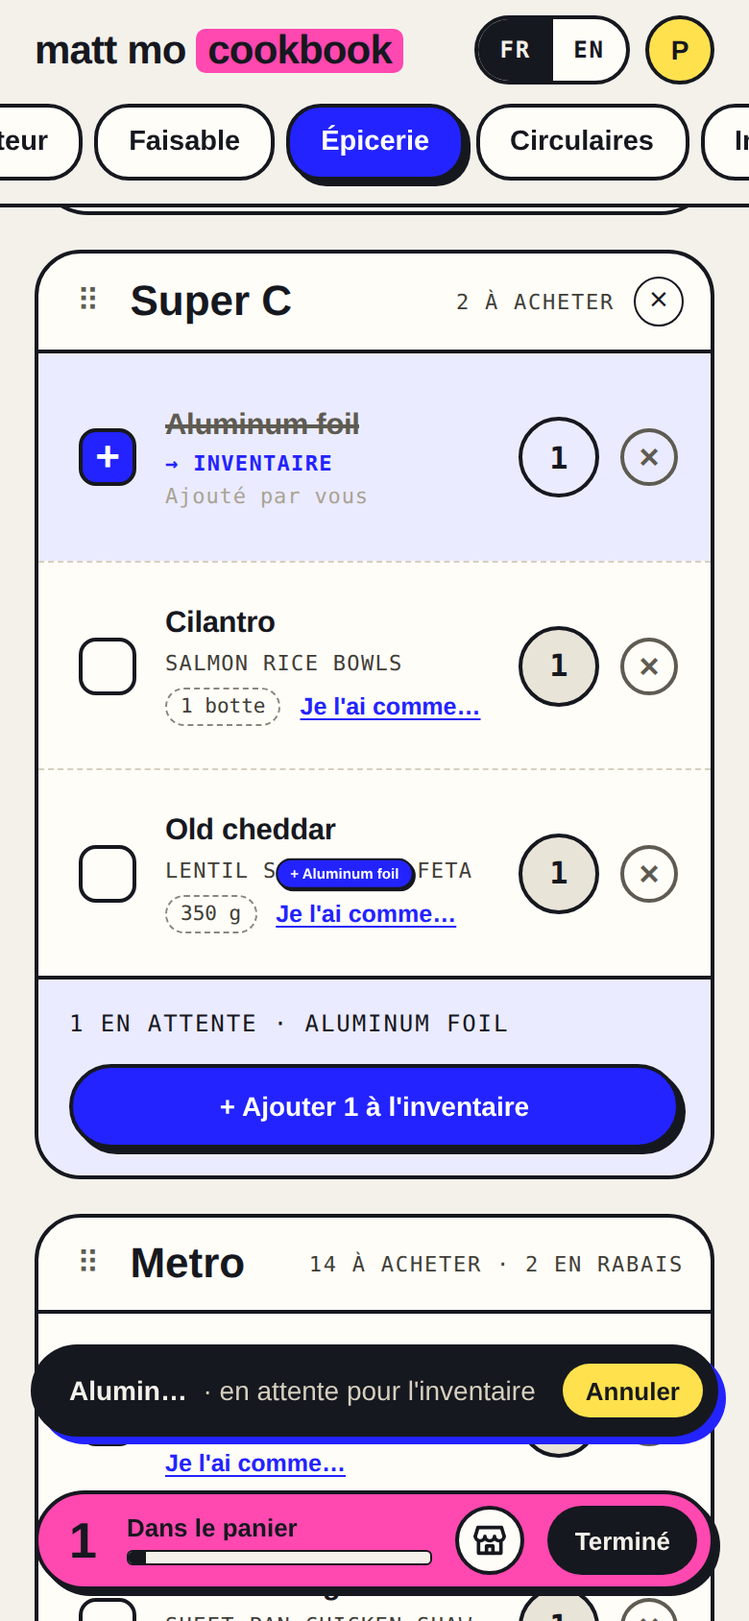
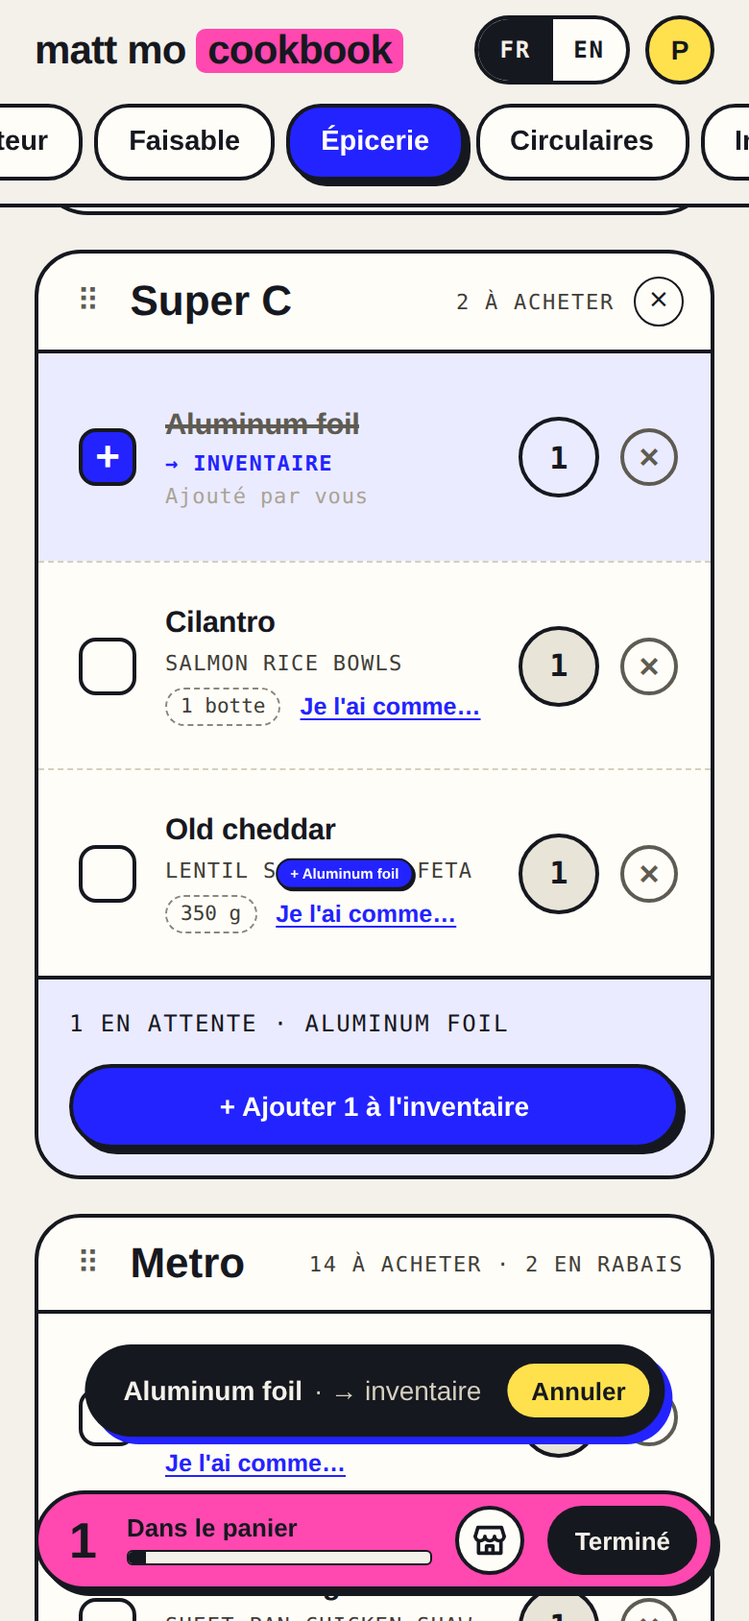
Grocery toast: the item's name is never cut; two bugs found while checking it
The French queued toast cut the name (« Alumin… · en attente pour l'inventaire »).

- French verbs shortened: « → inventaire » (the row's own queued label) and « dans la liste »
  (was « de retour dans la liste »); « dans le panier » stays. English is unchanged.
- The name matters more than the verb: when both don't fit on a line, the verb (which never breaks
  inside) drops under the name, and the name is cut with … only when it alone is too long. The pill
  stays 48 px tall. A browser test checks « Papier d'aluminium » and "Aluminum foil" at 360 and
  390 px, in both languages, on the list and in Store mode (16 px text); it fails without the fix.

Two bugs found while testing this, fixed here:
- Store mode with reduced motion crashed the app on the first tap: StoreMode has a state variable
  called `flash` that shadowed the colour-flash helper it imports. Renamed on import; new browser
  test for Store mode with reduced motion.
- The docked cart sometimes never appeared (about 1 run in 5 in a stress test): an
  IntersectionObserver says nothing when the bar goes from below the screen to above it in one jump
  (the page opens with the bar under the fold; a hard flick or the End key skips it). The bar is now
  measured on every scroll, resize and layout change. Unit test for the rule (lib/cartDock.js) and a
  browser test for the jump, which fails on the old code.

Screenshots 04 to 07 re-taken with the new French toasts, and a new one at 360 px with a long name.
[…]

Changed region(s): [[0.0308, 0.8318, 0.9846, 0.8934]]

diff --git a/e2e/grocery-check-feedback.spec.js b/e2e/grocery-check-feedback.spec.js
@@ -361,7 +361,15 @@ test.describe("twenty taps in a row", () => {
     // The shown number catches up when the chips have landed.
     await expect(page.locator(".riso-grocery-cart-num")).toHaveText("21", { timeout: 4000 });
     // Every save goes out, one item's in the order of its taps; the server keeps each item's last tap.
-    await expect.poll(async () => Object.keys(await savedChecks(page)).length, { timeout: 15000 }).toBe(21);
+    // ... until every save has been sent and has landed (a count of 21 can pass on the way, with the last
+    // DELETE still to go).
+    await expect.poll(() => saves.length, { timeout: 20000 }).toBe(25);
+    await expect
+      .poll(async () => {
+        const kept = await savedChecks(page);
+        return Object.keys(kept).length === 21 && !(keys.lemons in kept) && kept[keys["aluminum foil"]]?.queued === true;
+      }, { timeout: 20000 })
+      .toBe(true);
     const forItem = (key) => saves.filter((s) => s.split(" ")[1] === key);
     expect(forItem(keys.lemons)).toEqual([`POST ${keys.lemons}`, `POST ${keys.lemons} queued`, `DELETE ${keys.lemons}`]);
     expect(forItem(keys["aluminum foil"])).toEqual([`POST ${keys["aluminum foil"]}`, `POST ${keys["aluminum foil"]} queued`]);
@@ -507,6 +515,28 @@ for (const size of [{ width: 390, height: 664 }, { width: 390, height: 844 }]) {
   });
 }
 
+test.describe("a hard jump down the page, on a phone", () => {
+  test.use({ locale: "fr-CA", viewport: { width: 390, height: 700 }, hasTouch: true, isMobile: true });
+
+  test("the docked cart appears when the bar goes from below the screen to above it in one jump", async ({ page }) => {
+    const userId = await signUp(page, true);
+    await seed(page, userId);
+    await openGrocery(page, true);
+    // The page opens with How it works showing, so the cart bar is under the fold: not reached yet, no dock.
+    const barTop = await page.locator(".riso-grocery-cartbar").evaluate((el) => el.getBoundingClientRect().top);
+    expect(barTop).toBeGreaterThan(700);
+    await page.waitForTimeout(500);
+    await expect(page.locator(".riso-grocery-dock")).toHaveCount(0);
+    // One jump (the End key, a hard flick): the bar never crosses the screen on the way.
+    await page.evaluate(() => window.scrollTo(0, document.documentElement.scrollHeight));
+    await expect(page.locator(".riso-grocery-dock")).toBeVisible();
+    // And back to the top in one jump: the bar is in view again, so the dock leaves.
+    await page.evaluate(() => window.scrollTo(0, 0));
+    await page.evaluate(() => document.querySelector(".riso-grocery-cartbar").scrollIntoView({ block: "center" }));
+    await expect(page.locator(".riso-grocery-dock")).toHaveCount(0);
+  });
+});
+
 for (const width of [360, 390]) {
   test.describe(`${width} px wide, in French`, () => {
     test.use({ locale: "fr-CA", viewport: { width, height: 700 }, hasTouch: true, isMobile: true });
@@ -543,3 +573,94 @@ for (const width of [360, 390]) {
     });
   });
 }
+
+// The toast says the item's name first: a typical long name (« Papier d'aluminium », "Aluminum foil") is never cut,
+// whatever the verb, at the two phone widths that matter, on the list and in Store mode (16 px text, a bigger Undo).
+// When name and verb don't both fit on a line, the verb drops under the name.
+for (const lang of [
+  { code: "fr-CA", fr: true, typed: "papier d'aluminium", shown: "Papier d'aluminium", verbs: ["· dans le panier", "· → inventaire", "· dans la liste"], storeVerbs: ["· dans le panier", "· dans la liste"] },
+  { code: "en-CA", fr: false, typed: "aluminum foil", shown: "Aluminum foil", verbs: ["· in your cart", "· queued for inventory", "· back on the list"], storeVerbs: ["· in your cart", "· back on the list"] },
+]) {
+  for (const width of [360, 390]) {
+    test.describe(`${lang.code} toasts at ${width} px`, () => {
+      test.use({ locale: lang.code, viewport: { width, height: 800 }, hasTouch: true, isMobile: true });
+
+      test(`the name « ${lang.shown} » is never cut, on the list and in Store mode`, async ({ page }) => {
+        const userId = await signUp(page, lang.fr);
+        await seed(page, userId);
+        if (lang.fr) await page.request.post("/api/grocery-extra-items", { data: { name: lang.typed, quantity: 1 } });
+        await openGrocery(page, lang.fr);
+        const fits = async (verb) => {
+          const toast = page.locator(".riso-toast");
+          await expect(toast.locator(".riso-toast-name")).toHaveText(lang.shown);
+          await expect(toast.locator(".riso-toast-rest")).toHaveText(verb);
+          const m = await toast.evaluate((el) => {
+            const name = el.querySelector(".riso-toast-name");
+            const rest = el.querySelector(".riso-toast-rest");
+            const r = el.getBoundingClientRect();
+            const undo = el.querySelector(".riso-toast-undo").getBoundingClientRect();
+            return { cut: name.scrollWidth - name.clientWidth, restCut: rest.scrollWidth - rest.clientWidth, left: r.left, right: r.right, height: r.height, undoInside: undo.right <= r.right && undo.left >= r.left, width: innerWidth };
+          });
+          expect(m.cut, `${verb}: the name needs ${m.cut}px more room`).toBeLessThanOrEqual(1);
+          expect(m.restCut, `${verb} is whole`).toBeLessThanOrEqual(1);
+          expect(m.left).toBeGreaterThanOrEqual(0);
+          expect(m.right).toBeLessThanOrEqual(m.width);
+          expect(m.undoInside).toBe(true);
+          expect(m.height, "never taller than a two-line pill").toBeLessThanOrEqual(64);
+        };
+
+        const checkbox = box(page, lang.typed.replace(/[.*+?^${}()|[\]\\]/g, "\\$&"));
+        await checkbox.scrollIntoViewIfNeeded();
+        for (const verb of lang.verbs) {
+          await checkbox.tap();
+          await fits(verb);
+        }
+
+        // Store mode: bigger text in a narrower pill.
+        await page.locator(".riso-grocery-cartbar-store").tap();
+        const mode = page.locator(".store-mode");
+        await expect(mode).toBeVisible();
+        const row = mode.locator(".store-mode-row").filter({ hasText: lang.shown });
+        await row.tap();
+        await expect(page.locator(".riso-toast")).toHaveClass(/store-dark/);
+        await fits(lang.storeVerbs[0]);
+        await row.tap();
+        await fits(lang.storeVerbs[1]);
+      });
+    });
+  }
+}
+
+test.describe("Store mode, for someone who asked for less motion", () => {
+  test.use({ viewport: { width: 390, height: 844 }, hasTouch: true, isMobile: true });
+
+  test("a tap checks the row, says so in the toast and the count, flashes a colour, and sends no chip", async ({ page }) => {
+    await page.emulateMedia({ reducedMotion: "reduce" });
+    const userId = await signUp(page);
+    await seed(page, userId);
+    await openGrocery(page);
+    await page.locator(".riso-grocery-cartbar-store").tap();
+    const mode = page.getByRole("dialog", { name: "Store mode" });
+    await expect(mode).toBeVisible();
+    await recordAnimations(page);
+    const count = mode.locator(".store-mode-num");
+    const before = Number(await count.textContent());
+    const cilantro = mode.locator(".store-mode-row").filter({ hasText: "Cilantro" });
+    await cilantro.tap();
+    // The app is still there (an earlier version crashed here), the row is checked and the count is at once.
+    await expect(page.getByText(/What you already saved is safe/)).toHaveCount(0);
+    await expect(cilantro).toHaveAttribute("data-step", "1");
+    await expect(count).toHaveText(String(before - 1));
+    await expect(page.locator(".riso-toast .riso-toast-rest")).toHaveText("· in your cart");
+    expect(await page.evaluate(() => window.chips)).toBe(0);
+    // The row and the count's row flash (600 ms), nothing moves.
+    const all = await page.evaluate(() => window.started);
+    expect(all.some((a) => a.duration === 600 && a.props.join() === "backgroundColor" && a.what === "row")).toBe(true);
+    expect(all.filter((a) => a.props.some((p) => !["backgroundColor", "opacity"].includes(p)))).toEqual([]);
+    await cilantro.tap(); // out again
+    await expect(cilantro).toHaveAttribute("data-step", "0");
+    await expect(count).toHaveText(String(before));
+    await page.locator(".riso-toast").getByRole("button", { name: "Undo" }).tap();
+    await expect(cilantro).toHaveAttribute("data-step", "1");
+  });
+});

diff --git a/client/src/hooks/useCartDock.js b/client/src/hooks/useCartDock.js
@@ -1,4 +1,5 @@
 import { useEffect, useState } from "react";
+import { dockWanted } from "../lib/cartDock.js";
 
 // The height of the page header while it is pinned to the top of a phone's screen (it is
 // `position: sticky` there), else 0: the part of the window that rows and bars slide under.
@@ -13,28 +14,35 @@ export function pinnedHeaderHeight() {
 // the top of the scroll area"; that area starts under the header). A bar that is still below the
 // screen, or in view, shows no dock. It leaves at once when the bar comes back. Pass `null`
 // (no bar: a computer) and it is always false.
+//
+// The bar is measured on every scroll, resize and change of layout (not watched by an
+// IntersectionObserver: that reports only when the bar enters or leaves the screen, so a jump from
+// below the screen straight to above it, a hard flick or the End key, would tell it nothing).
 export function useCartDock(bar) {
   const [on, setOn] = useState(false);
   useEffect(() => {
-    if (!bar || typeof IntersectionObserver === "undefined") {
+    if (!bar) {
       setOn(false);
       return undefined;
     }
-    let observer = null;
-    function watch() {
-      observer?.disconnect();
-      const pinned = pinnedHeaderHeight();
-      observer = new IntersectionObserver(
-        ([entry]) => setOn(!entry.isIntersecting && entry.boundingClientRect.bottom <= pinned + 1),
-        { rootMargin: `-${pinned}px 0px 0px 0px` }
-      );
-      observer.observe(bar);
-    }
-    watch();
-    window.addEventListener("resize", watch); // the header is pinned or not as the window turns
+    let frame = 0;
+    const check = () => {
+      frame = 0;
+      setOn(dockWanted(bar.getBoundingClientRect(), pinnedHeaderHeight()));
+    };
+    const soon = () => {
+      if (!frame) frame = requestAnimationFrame(check);
+    };
+    check();
+    window.addEventListener("scroll", soon, { passive: true });
+    window.addEventListener("resize", soon);
+    const observer = typeof ResizeObserver !== "undefined" ? new ResizeObserver(soon) : null; // How it works closed, a footer opened...
+    observer?.observe(document.body);
     return () => {
+      if (frame) cancelAnimationFrame(frame);
+      window.removeEventListener("scroll", soon);
+      window.removeEventListener("resize", soon);
       observer?.disconnect();
-      window.removeEventListener("resize", watch);
     };
   }, [bar]);
   return on;

diff --git a/client/src/lib/cartDock.test.js b/client/src/lib/cartDock.test.js
@@ -1,0 +1,33 @@
+import { describe, expect, it } from "vitest";
+import { dockWanted } from "./cartDock.js";
+
+describe("when the docked cart shows", () => {
+  it("shows once the bar has scrolled out of sight above the pinned header", () => {
+    expect(dockWanted({ bottom: -2223 }, 108)).toBe(true);
+    expect(dockWanted({ bottom: 108 }, 108)).toBe(true); // its bottom edge just at the header's
+  });
+
+  it("stays away while the bar is in view", () => {
+    expect(dockWanted({ bottom: 300 }, 108)).toBe(false);
+    expect(dockWanted({ bottom: 109.5 }, 108)).toBe(false);
+  });
+
+  it("stays away while the bar is still below the screen (how the page opens under How it works)", () => {
+    expect(dockWanted({ bottom: 886 }, 108)).toBe(false);
+  });
+
+  it("is a plain measure of where the bar is, so a jump from below the screen to above it counts too", () => {
+    // Before and after a jump of 3000 px: no step in between, the answer follows the bar.
+    expect(dockWanted({ bottom: 886 }, 108)).toBe(false);
+    expect(dockWanted({ bottom: 886 - 3169 }, 108)).toBe(true);
+  });
+
+  it("without a pinned header (a computer, or an unpinned phone) the line is the top of the screen", () => {
+    expect(dockWanted({ bottom: -1 }, 0)).toBe(true);
+    expect(dockWanted({ bottom: 40 }, 0)).toBe(false);
+  });
+
+  it("with no bar there is no dock", () => {
+    expect(dockWanted(null, 108)).toBe(false);
+  });
+});

diff --git a/client/src/components/StoreMode.jsx b/client/src/components/StoreMode.jsx
@@ -6,7 +6,7 @@ import { ThemeSwitch } from "./ThemeSwitch.jsx";
 import { useEqualRowHeight } from "../hooks/useEqualRowHeight.js";
 import { useTheme } from "../hooks/useTheme.js";
 import { capitalize } from "../lib/groceryList.js";
-import { EASE, T, flash, play, prefersReducedMotion } from "../lib/motion.js";
+import { EASE, T, flash as flashColour, play, prefersReducedMotion } from "../lib/motion.js"; // (`flash` below is the item just moved)
 import { brandOf } from "../lib/flyerIngredients.js";
 import { colorOfStore, readStoreColors, writeStoreColors } from "../lib/storeColors.js";
 import { getLang, t } from "../i18n/index.js";
@@ -185,7 +185,7 @@ export function StoreMode({
     if (!pulse || pulse.n === lastPulse.current) return;
     lastPulse.current = pulse.n;
     if (prefersReducedMotion()) {
-      flash(summaryRef.current, "rgba(255, 225, 77, 0.28)");
+      flashColour(summaryRef.current, "rgba(255, 225, 77, 0.28)");
       return;
     }
     play(numberRef.current, [{ transform: "scale(1)" }, { transform: "scale(1.22)", offset: 0.4 }, { transform: "scale(1)" }], {

diff --git a/client/src/components/Toast.jsx b/client/src/components/Toast.jsx
@@ -9,8 +9,10 @@ import { t } from "../i18n/index.js";
 // rest all use this one.
 //
 //   toast    { id, message, undo?, variant? } or null
-//   message  a text, or { name, rest } for a grocery check: the item's name (bold, cut
-//            with … when long) then its "· rest", which never wraps
+//   message  a text, or { name, rest } for a grocery check: the item's name (bold) then its
+//            "· rest", which never breaks inside. The name matters more: when both don't fit on
+//            a line the rest drops under the name, and the name is cut with … only when it
+//            alone is too long
 //   variant  "store-dark" / "store-light": Store mode's own pill (lower, a bigger Undo)
 //   onClose  hides it
 //

diff --git a/client/src/lib/cartDock.js b/client/src/lib/cartDock.js
@@ -1,0 +1,8 @@
+// Whether the cart's docked copy should show, from where the cart bar is now (hooks/useCartDock.js):
+// `rect` is the bar's getBoundingClientRect(), `pinned` the height of the header pinned to the top of
+// a phone's screen (0 when it isn't). The dock shows once the bar has gone out of sight ABOVE the
+// screen: its bottom edge is higher than where the pinned header ends. A bar still in view, or still
+// below the screen (the page opens with it under the fold when How it works is showing), shows no dock.
+export function dockWanted(rect, pinned) {
+  return !!rect && rect.bottom <= pinned + 1;
+}

diff --git a/client/src/i18n/fr.js b/client/src/i18n/fr.js
@@ -1162,8 +1162,8 @@ export const fr = {
     addQueued: "+ Ajouter {count} à l'inventaire",
     // Le message unique après chaque toucher de la case d'un article (le nom est en gras, puis le reste) : ce que le toucher a fait.
     toastInCart: "{name} · dans le panier",
-    toastQueued: "{name} · en attente pour l'inventaire",
-    toastBack: "{name} · de retour dans la liste",
+    toastQueued: "{name} · → inventaire",
+    toastBack: "{name} · dans la liste",
     colOnSale: "EN SOLDE",
     colRecipe: "RECETTE",
     colBuy: "ACHETER",

diff --git a/client/src/index.css b/client/src/index.css
@@ -21682,13 +21682,17 @@ body.no-select {
   padding-right: 8px;
 }
 
+/* The name matters more than the verb: when both don't fit on one line the verb (which never breaks
+   inside) drops under the name, and the name is cut with a … only when it alone is too long. */
 .riso-toast-text.parts {
   display: flex;
-  gap: 6px;
+  flex-wrap: wrap;
+  column-gap: 6px;
 }
 
 .riso-toast-name {
   min-width: 0;
+  max-width: 100%;
   overflow: hidden;
   text-overflow: ellipsis;
   white-space: nowrap;

diff --git a/docs/components.md b/docs/components.md
@@ -117,7 +117,7 @@ Used by: the recipe card's Plan (from every page; the picker opens above the car
 
 It sits above every card, picker and question (z-index 500), so Undo can be pressed while one is open. `showToast(message, undo?, { onGone, replace, variant })`: `onGone` runs when the toast leaves without Undo (its five seconds, another message replacing it, leaving the page, logout); Undo runs before the toast closes. The recipe card's Delete uses it.
 
-**Look and motion** (design `docs/design/riso-v2-grocery-check-feedback/` §6): the pill comes in with an 8 px rise and a 160 ms fade the first time, a new message in the same pill cross-fades its text (120 ms, linear) and restarts the five seconds (which are real time: slow motion never stretches them), and it leaves with a 160 ms fade. A message is a text, or `{ name, rest }` for an item's name (bold, cut with … when long) and its "· where it went" (which never wraps), as Grocery's checks show. `replace: true` says the message follows another quickly (Grocery's one toast per tap): the same pill keeps its place instead of re-entering. `variant: "store-dark" | "store-light"` is Store mode's pill (24 px from the bottom, a bigger Undo; paper-coloured on the dark screen). On a phone it sits 96 px up, which clears Grocery's docked cart. Taps go through its body to the page under it (`pointer-events: none`); only Undo, a 44 px tall hit area around its 28 px pill, takes one. For reduced motion it enters and leaves with opacity only.
+**Look and motion** (design `docs/design/riso-v2-grocery-check-feedback/` §6): the pill comes in with an 8 px rise and a 160 ms fade the first time, a new message in the same pill cross-fades its text (120 ms, linear) and restarts the five seconds (which are real time: slow motion never stretches them), and it leaves with a 160 ms fade. A message is a text, or `{ name, rest }` for an item's name (bold) and its "· where it went" (which never breaks inside), as Grocery's checks show. **The name matters more than the verb:** when both don't fit on one line the verb drops under the name (the pill stays 48 px tall), and the name is cut with … only when it alone is too long; a browser test checks « Papier d'aluminium » and "Aluminum foil" at 360 and 390 px, in French and English, on the list and in Store mode. `replace: true` says the message follows another quickly (Grocery's one toast per tap): the same pill keeps its place instead of re-entering. `variant: "store-dark" | "store-light"` is Store mode's pill (24 px from the bottom, a bigger Undo; paper-coloured on the dark screen). On a phone it sits 96 px up, which clears Grocery's docked cart. Taps go through its body to the page under it (`pointer-events: none`); only Undo, a 44 px tall hit area around its 28 px pill, takes one. For reduced motion it enters and leaves with opacity only.
 
 Used by: Planner (add, replace, remove, copy, leftovers, a card dropped on the phone's trash strip, a phone status tap ("marked as leftovers", with Undo putting the old mark back; the card changes at once, and if the save fails it goes back and the Toast says so), Option-drag copies, and "Clear" on a day: one message "Tuesday cleared" whose Undo puts every meal, note and empty card back through `restoreEntry`, leftover marks included, no question first), Recipes (imported), Inventory (added, saved, a frozen leftover moved to the fridge to thaw, with Undo), the grocery ✓ in Ingredient marks (taken off the list), Home's Proteins on sale ("✓ On list" tapped again), Makeable's À acheter ("N items added to the grocery list", Undo takes them off again), the finished view ("Cooked: <recipe>" when it closes, whose Undo puts back the amounts, the leftovers and the cooked mark), Inventory leftovers placed on the Planner, and a planned leftover whose day has passed ("1 portion of leftovers taken off", Undo puts the portion back), a sent Feedback ("Thanks!" / « Merci! », no Undo), and a taught name ("Rice wine vinegar now counts as Rice vinegar", "… no longer counts as …", whose Undo takes it back or puts it back).
 
@@ -339,9 +339,9 @@ The Grocery page (`components/GroceryList.jsx`, design `docs/design/riso-v2-groc
 - **Done shopping** (the cart's button, the phone bar's « Terminé », Store mode's leave sheet) opens the same sheet with everything in the cart: queued items ticked, bought ones not (`on: false`, they can be ticked). Once confirmed (also with nothing ticked: "Done, add nothing", `confirmNone`), the whole cart leaves the list as bought (`markGroceryInInventory`), whatever went in. Cancel changes nothing.
 - **The heading and the rows share one grid on a computer** (`--gi-cols` on `.riso-grocery`: `44px minmax(0,1fr) 128px 76px 56px 32px`): `GroupHead` puts the grip (By store, the shared `ReorderGrip`, see Reorder sections), the name and "3 TO BUY · 2 ON SALE" over the first two columns, ON SALE, RECIPE and BUY over theirs, and the × of a store you made in the last (the browser's "are you sure?" still, until it moves to `ConfirmDialog`). A row is the box, the name and its meta line ("→ INVENTORY", "Added by you" for an item you typed in, the brand, the recipes: one or two by name, three or more as the first and "+2"), the sale price, the recipe quantity as plain text, the 52 × 36 number pill and the ×. Names always start with a capital. On a phone the heading is one line without labels, and the row keeps its 108 px layout (the recipe quantity a dashed chip under the name, the 42 px round number, the circled ×, no sale price held upright).
 - **The sale price** (`.riso-row-deal`): a green dot, the price with a dotted underline and ›, and in By aisle and By recipe the store after it (`dealStore`). It opens the deal card over Grocery, with "See in Flyers →" (`openFlyerDeal`); it's hidden once the item is checked.
-- **The cart** (`GroceryCart`): one component with three looks. The pink card in the side column on a computer (sticky, `top: 20px`); on a phone (`useIsPhone`) a small pink bar under How it works (or above the add field once that's closed): the count, "IN THE CART / Items checked", « Terminé », a progress bar and the full-width « Je suis à l'épicerie » button (`grocery.atStore`, with « MODE GRAND »); and, on a phone only, once that bar has scrolled away above the pinned header (`hooks/useCartDock.js`, an `IntersectionObserver`), its docked copy (`dock`): fixed 18 px from each side and 16 px (plus the safe area) from the bottom, 52 px tall, with the count, « Dans le panier » over a progress bar, a 36 px shop-icon button (aria-label « Je suis à l'épicerie ») and « Terminé ». It enters from 12 px below over 180 ms (opacity only for reduced motion) and leaves at once when the bar comes back. Whichever is showing is where the name chip flies; its number is `data-cart-num`. The number shown leaves out an item whose chip is still on its way and counts it when the chip lands; « Terminé » and everything that acts go by the real cart (`canDone`).
+- **The cart** (`GroceryCart`): one component with three looks. The pink card in the side column on a computer (sticky, `top: 20px`); on a phone (`useIsPhone`) a small pink bar under How it works (or above the add field once that's closed): the count, "IN THE CART / Items checked", « Terminé », a progress bar and the full-width « Je suis à l'épicerie » button (`grocery.atStore`, with « MODE GRAND »); and, on a phone only, once that bar has scrolled away above the pinned header (`hooks/useCartDock.js`: it measures the bar on every scroll, resize and layout change, not with an `IntersectionObserver`, which says nothing when the bar goes from below the screen to above it in one jump), its docked copy (`dock`): fixed 18 px from each side and 16 px (plus the safe area) from the bottom, 52 px tall, with the count, « Dans le panier » over a progress bar, a 36 px shop-icon button (aria-label « Je suis à l'épicerie ») and « Terminé ». It enters from 12 px below over 180 ms (opacity only for reduced motion) and leaves at once when the bar comes back. Whichever is showing is where the name chip flies; its number is `data-cart-num`. The number shown leaves out an item whose chip is still on its way and counts it when the chip lands; « Terminé » and everything that acts go by the real cart (`canDone`).
 - **The bottom of a phone's screen holds one thing: the docked cart** (above). The toast sits 96 px up, clear of it (Store mode's own toast is lower: Store mode covers the page and the dock). Both float over the rows while you scroll; they never cover each other, the page ends with 140 px of room (`.riso-grocery` padding plus `.app`'s) so the last row, footer and sale card scroll fully clear, and the toast lets taps through its body. A browser test (`e2e/grocery-check-feedback.spec.js`) scrolls every view at 390 × 664 and 390 × 844 in French and checks all of that, and the cart bar's, dock's and footer's French labels at 360 and 390 px. The old sticky « Je suis à l'épicerie » button and `useStickyDodge` are gone: nothing else floats.
-- **Checking an item** (design `docs/design/riso-v2-grocery-check-feedback/`). A checked row never leaves the list or its place (no sort): it stays, tinted, until its store's « + Ajouter à l'inventaire » or Done shopping takes it. Each tap of a box: the row plays its part (`GroceryItem` → `lib/checkMotion.js`: the box fills and the ✓ pops, the tint changes, the strike-through is a line drawn in the name's background so it can sweep and still wrap, "→ INVENTORY" slides in; a new tap on the same row cancels that row's animations and starts the next step), a name chip flies to the cart's number (✓), a blue "+ name" chip to the store's Add button (+) or comes back out of the cart (back to the list) (`hooks/useCheckFeedback.js`, `flyChip`; no chip when the target is out of sight), the counts change when the chip lands, the footer opens, rolls its numbers and closes (it stays on screen until its close animation ends), and one toast says `{name} · in your cart / queued for inventory / back on the list` with Undo (`grocery.toastInCart`, `toastQueued`, `toastBack`; the toast holds only the last tap, so Undo takes back that one and puts the exact step before; a replayed Undo says nothing more). Taps never wait: each reads the row's latest step (`steps` in `GroceryList`), the screen changes at once, saves keep going out in tap order per item (`saveInOrder`), and twenty chips can fly together. For reduced motion nothing moves: no chip, and the row, the cart (bar, dock or card) and the footer flash a colour that fades (`--riso-flash`, `--riso-yellow`); counts change at the moment of the tap. Store mode does the same on its own terms (README §8): the line draws, the row fades back to 45%, the chip flies to the big count (`flights` leaves a checked row out until it lands) and the toast is `store-dark` or `store-light`.
+- **Checking an item** (design `docs/design/riso-v2-grocery-check-feedback/`). A checked row never leaves the list or its place (no sort): it stays, tinted, until its store's « + Ajouter à l'inventaire » or Done shopping takes it. Each tap of a box: the row plays its part (`GroceryItem` → `lib/checkMotion.js`: the box fills and the ✓ pops, the tint changes, the strike-through is a line drawn in the name's background so it can sweep and still wrap, "→ INVENTORY" slides in; a new tap on the same row cancels that row's animations and starts the next step), a name chip flies to the cart's number (✓), a blue "+ name" chip to the store's Add button (+) or comes back out of the cart (back to the list) (`hooks/useCheckFeedback.js`, `flyChip`; no chip when the target is out of sight), the counts change when the chip lands, the footer opens, rolls its numbers and closes (it stays on screen until its close animation ends), and one toast says `{name} · in your cart / queued for inventory / back on the list` with Undo (`grocery.toastInCart`, `toastQueued`, `toastBack`; in French « dans le panier », « → inventaire » (the row's own queued label) and « dans la liste », kept short for the name's sake; the toast holds only the last tap, so Undo takes back that one and puts the exact step before; a replayed Undo says nothing more). Taps never wait: each reads the row's latest step (`steps` in `GroceryList`), the screen changes at once, saves keep going out in tap order per item (`saveInOrder`), and twenty chips can fly together. For reduced motion nothing moves: no chip, and the row, the cart (bar, dock or card) and the footer flash a colour that fades (`--riso-flash`, `--riso-yellow`); counts change at the moment of the tap. Store mode does the same on its own terms (README §8): the line draws, the row fades back to 45%, the chip flies to the big count (`flights` leaves a checked row out until it lands) and the toast is `store-dark` or `store-light`.
 - **"I have it as…"** (« Je l'ai comme… ») is a link at the end of the meta line of a row that comes from recipes (`GroceryItem`'s `onHaveAs`, given by `GroceryList`; never in Store mode, never on a row you typed in, and not on a row whose names Inventory already covers). It links every recipe name behind the row that Inventory does not hold (garlic and garlic cloves) to the item picked, and one Undo removes them all. It adds nothing to Inventory.
 - **Removed from your list** is the shared `RemovedStrip` (chips with ↺, and Clear), the same strip as Inventory's Recently removed.
 - **Already at home** ("Déjà à la maison") is the same `RemovedStrip`, `collapsible` and closed to begin with, last under the list. A planned meal's ingredient that Inventory holds is not a row on the list: `splitAtHome` (`lib/groceryAtHome.js`) asks the one matcher (`ingredientHave`) about every ingredient behind the row, so the recipe card, Makeable, Home and the Grocery list agree (a name match, not an amount). Each entry shows the Inventory item that covers it, and **Put back on the list** saves `keep` on the row's `GroceryItemOverride` (cleared when the meals that need the row leave the plan, like a removal). A row you typed in, a row put back and a row with a saved check (in the cart, or bought) stay on the list; water from the tap is on neither. Home's grocery card, Store mode, the share text and the "adds N items" toast (`newGroceryItemCount`) count only what is still to buy.

diff --git a/docs/screenshots/riso-v2-grocery-check-feedback/README.md b/docs/screenshots/riso-v2-grocery-check-feedback/README.md
@@ -6,14 +6,15 @@ On the phone, in order:
 - `phone-fr-01-before`: the pink cart bar (« 0 DANS LE PANIER », « Terminé », the progress bar) now has « Je suis à l'épicerie » inside it; Aluminum foil is the first row of Super C.
 - `phone-fr-02-checked-chip-flying`: one tap, 275 ms in. The row is tinted and struck through where it is, the name chip is on its way to the cart (the number still says 0: it counts when the chip lands), and the one toast says « Aluminum foil · dans le panier » with « Annuler ».
 - `phone-fr-03-checked-in-cart`: landed. The row stays where it is, the cart says 1.
-- `phone-fr-04-queued-chip-to-footer`: the second tap, 240 ms in. The row turns light blue (« → INVENTAIRE »), Super C's footer has opened and a blue « + Aluminum foil » chip flies to its button. The cart still says 1. The toast's name is cut with … because the French « en attente pour l'inventaire » never wraps (the design's rule).
+- `phone-fr-04-queued-chip-to-footer`: the second tap, 240 ms in. The row turns light blue (« → INVENTAIRE »), Super C's footer has opened and a blue « + Aluminum foil » chip flies to its button. The cart still says 1. The French toast says « Aluminum foil · → inventaire » (the same words as the row's « → INVENTAIRE »), so the name stays whole.
 - `phone-fr-05-queued-footer-open`: settled. « 1 EN ATTENTE · ALUMINUM FOIL » and « + Ajouter 1 à l'inventaire ».
 - `phone-fr-06-back-chip-returning`: the third tap, 215 ms in. The count is already back to 0, the chip comes out of the cart back to the row, the row is flashing, and the footer is closing.
-- `phone-fr-07-back-on-the-list`: « de retour dans la liste ». Undo would put the + step back.
+- `phone-fr-07-back-on-the-list`: « Aluminum foil · dans la liste ». Undo would put the + step back.
 - `phone-fr-08-dock`: scrolled past the bar, its docked copy is at the bottom: the count, « Dans le panier » over the progress bar, the shop-icon button for Store mode and « Terminé » (greyed while the cart is empty). It is the one thing at the bottom of the screen.
 - `phone-fr-09-dock-chip-flying` and `phone-fr-10-dock-toast-above`: a tap deep in the list, the chip flying to the dock's number, and the toast sitting above the dock without touching it.
 - `phone-fr-11-page-end`: the end of the page. The sale card scrolls fully clear above the dock.
 - `phone-fr-12-store-mode` to `phone-fr-15-store-mode-toast-light`: Store mode, opened from the dock's shop button. The chip flies to the big count, which drops when it lands; the toast is paper-coloured on the dark screen (`14`) and the usual ink pill on the light one (`15`), both with « Annuler ».
+- `phone-fr-17-toasts-360-long-name`: a 360 px phone and a long name, « Papier d'aluminium », through the three steps and in Store mode (bigger text). The name is never cut: when it and the verb don't both fit on a line, the verb goes under the name, and the pill is no taller.
 - `phone-fr-16-reduced-motion-flash`: the same tap with the device asking for less motion, 90 ms in. Nothing moves and there is no chip: the row and the cart flash a colour that fades, and the count is already 1.
 
 On a computer: `desktop-en-01-checked-chip-flying` (the chip on its way to the cart card in the sticky side column) and `desktop-en-02-checked-in-cart`.
